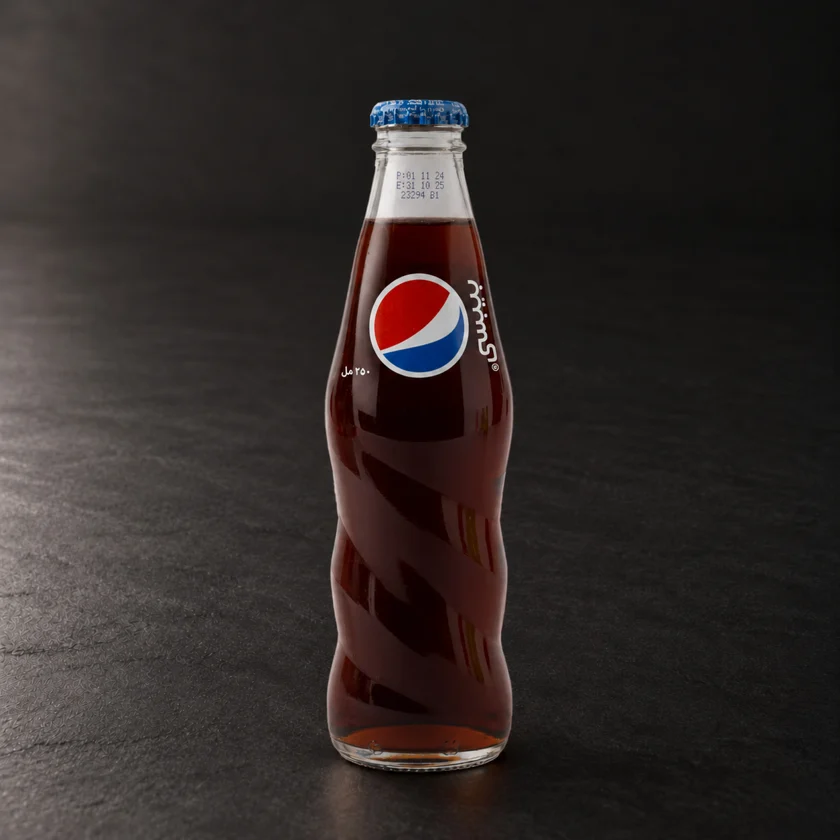
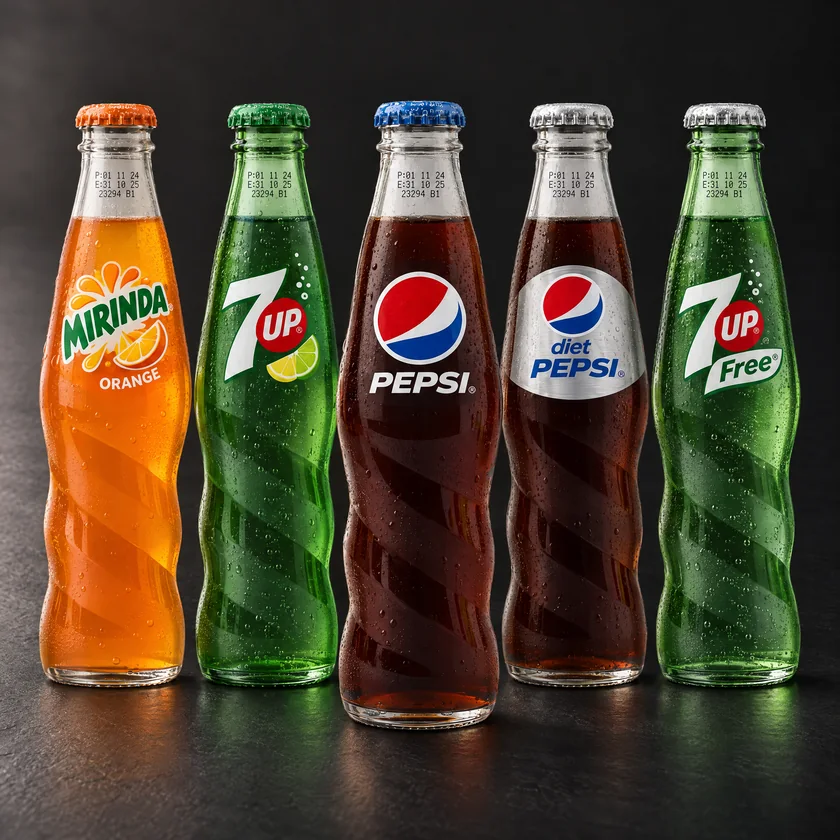
Unified menu: Sao Paulo hero, add-ons, fries options, new drinks photo
- Hero shows the Smokey Burger halves and Sao Paulo side by side
- Removes Burger Hunch / MOLT labels from dishes and sauces
- Burger add-ons (caramelised onion, jalapeno, extra cheese) at AED 3
- French fries plain or seasoned; new soft-drink line-up photo

Claude-Session: https://claude.ai/code/session_01593DdNt4ohMA5XQcDxVyGY

diff --git a/index.html b/index.html
@@ -77,9 +77,9 @@ button{font:inherit;color:inherit;background:none;border:0;padding:0;cursor:poin
 .l1{color:var(--cream);font-size:.78em}
 .l2{color:var(--orange);text-shadow:0 0 38px rgba(242,106,33,.35);--d0:240ms}
 [dir=rtl] .hero h1{font:700 clamp(50px,12vw,128px)/1.05 var(--text);letter-spacing:0}
-.food{position:absolute;top:0;bottom:0;left:50%;width:min(100%,980px);transform:translate3d(-50%,var(--fy,0px),0);z-index:2;pointer-events:none}
-.beef{position:absolute;width:62%;left:3%;bottom:2%;filter:drop-shadow(0 22px 22px rgba(0,0,0,.6))}
-.bogota{position:absolute;width:44%;right:2%;bottom:-1%;filter:drop-shadow(0 22px 24px rgba(0,0,0,.65))}
+.food{position:absolute;top:0;bottom:0;left:50%;width:min(100%,980px);transform:translate3d(-50%,var(--fy,0px),0);z-index:2;pointer-events:none;display:flex;align-items:flex-end;justify-content:center;gap:var(--fg,2%);padding:0 3% var(--fb,3%)}
+.beef{flex:none;width:var(--bw,52%);filter:drop-shadow(0 22px 22px rgba(0,0,0,.6))}
+.sao{flex:none;width:var(--sw,40%);filter:drop-shadow(0 22px 24px rgba(0,0,0,.65))}
 .lattice{position:absolute;right:-4%;bottom:-6%;width:44%;height:38%;z-index:1;opacity:.75;transform:rotate(-8deg);clip-path:polygon(9% 30%,30% 12%,58% 18%,82% 2%,100% 8%,100% 100%,0 100%);background:repeating-linear-gradient(45deg,transparent 0 13px,rgba(236,218,194,.55) 13px 15px),repeating-linear-gradient(-45deg,transparent 0 13px,rgba(236,218,194,.55) 13px 15px)}
 .sparks,.smoke{position:absolute;inset:0;z-index:1;pointer-events:none}
 .sparks i{position:absolute;bottom:18%;left:var(--x);width:var(--s);height:var(--s);border-radius:50%;background:var(--ember);box-shadow:0 0 8px 2px rgba(255,138,61,.7);opacity:0;animation:rise var(--d) linear var(--w) infinite}
@@ -90,12 +90,12 @@ button{font:inherit;color:inherit;background:none;border:0;padding:0;cursor:poin
 @keyframes heat{to{text-shadow:0 0 70px rgba(242,106,33,.6),0 0 18px rgba(255,160,90,.35)}}
 /* hero load sequence */
 .js .hero h1 .c{opacity:0;transform:translateY(55%) rotate(5deg);filter:blur(8px)}
-.js .beef,.js .bogota{opacity:0;transform:translateY(60px) scale(.94)}
+.js .beef,.js .sao{opacity:0;transform:translateY(60px) scale(.94)}
 .js .lattice{opacity:0;transform:rotate(-8deg) translateY(40px)}
 .ready .hero h1 .c{opacity:1;transform:none;filter:none;transition:transform .9s cubic-bezier(.2,.9,.25,1.12),opacity .5s ease,filter .7s ease;transition-delay:calc(var(--i)*38ms + var(--d0,0ms))}
 .ready .l2{animation:heat 2.8s ease-in-out 1.8s infinite alternate}
-.ready .beef,.ready .bogota{opacity:1;transform:none;transition:opacity .8s ease .55s,transform 1.2s cubic-bezier(.2,.9,.25,1.06) .55s}
-.ready .bogota{transition-delay:.72s}
+.ready .beef,.ready .sao{opacity:1;transform:none;transition:opacity .8s ease .55s,transform 1.2s cubic-bezier(.2,.9,.25,1.06) .55s}
+.ready .sao{transition-delay:.72s}
 .ready .lattice{opacity:.75;transform:rotate(-8deg);transition:opacity 1.2s ease .9s,transform 1.4s var(--ease) .9s}
 
 /* category bar */
@@ -175,6 +175,25 @@ main.swap{animation:swap .45s ease}
 .reveal.seen .copy>:nth-child(2){transition-delay:.09s}
 .reveal.seen .copy>:nth-child(3){transition-delay:.18s}
 @media (hover:hover){.item.seen:hover .ph img{transform:scale(1.07)}}
+
+/* fries options + burger add-ons */
+.opts{display:flex;flex-wrap:wrap;gap:8px;margin-top:12px}
+.opts span{display:inline-flex;align-items:center;gap:8px;min-height:36px;padding:6px 14px;border-radius:999px;border:1px solid rgba(242,106,33,.45);color:var(--cream);font:600 15px/1 var(--text)}
+.opts span::before{content:"";width:7px;height:7px;border-radius:50%;background:var(--orange)}
+.adds{margin-top:16px;padding-top:12px;border-top:1px dashed rgba(244,232,216,.14);max-width:520px}
+.adds-h{display:flex;align-items:baseline;justify-content:space-between;gap:12px;margin-bottom:10px}
+.adds-l{font:700 15px/1 var(--display);text-transform:uppercase;letter-spacing:.02em;color:var(--soft)}
+[dir=rtl] .adds-l{font:600 14px/1 var(--text);letter-spacing:0}
+.adds-row{display:flex;flex-wrap:wrap;gap:8px 18px}
+.add{display:inline-flex;align-items:center;gap:6px;font-size:14px;color:#d6c9b7;white-space:nowrap}
+.add img{width:30px;height:30px;object-fit:contain;filter:drop-shadow(0 3px 4px rgba(0,0,0,.5))}
+.adds-p{font:700 18px/1 var(--display);color:var(--cream);white-space:nowrap}
+.adds-p .cur{font-size:.7em}
+.adds-p small{font:400 13px/1 var(--text);color:var(--soft)}
+.sheet .adds{margin-top:18px}
+.stag .sp{display:block;margin-top:4px;font:700 .82em/1 var(--display);color:#9a3c10}
+.stag .sp .cur{color:#9a3c10;font-size:.8em}
+[dir=rtl] .stag .sp{font:600 .9em/1 var(--text)}
 
 /* sauces */
 .sub{margin:clamp(30px,4vw,44px) 0 4px;font:800 clamp(28px,3.8vw,38px)/1 var(--display);text-transform:uppercase;color:var(--cream)}
@@ -268,15 +287,15 @@ dialog.closing[open]::backdrop{animation:fadeOut .22s ease forwards}
   .sheet .big{min-height:0;aspect-ratio:4/3}
   dialog{width:100vw;max-width:100vw;max-height:94vh;margin:auto 0 0;border-radius:22px 22px 0 0}
   @keyframes pop{from{transform:translateY(60%)}}
-  .beef{width:70%;left:1%;bottom:5%}
-  .bogota{width:58%;right:-6%;bottom:16%}
+  .food{--bw:54%;--sw:42%;--fg:1%;--fb:6%;padding-inline:2%}
+  .hero{height:clamp(300px,82vw,340px)}
   .lattice{width:60%;height:30%}
 }
 @media (prefers-reduced-motion:reduce){
   *,*::before,*::after{animation:none!important;transition:none!important}
   html{scroll-behavior:auto}
   .js .splash{display:none}
-  .js .hero h1 .c,.js .beef,.js .bogota,.js .reveal .ph img,.js .reveal .copy>*,.js .op .ttl,.js .op .tag,.js .end .sign span,.js .saucebar .plank,.js .saucebar .cimg,.js .saucebar .stag{transform:none;opacity:1;filter:none;clip-path:none}
+  .js .hero h1 .c,.js .beef,.js .sao,.js .reveal .ph img,.js .reveal .copy>*,.js .op .ttl,.js .op .tag,.js .end .sign span,.js .saucebar .plank,.js .saucebar .cimg,.js .saucebar .stag{transform:none;opacity:1;filter:none;clip-path:none}
   .cimg::before{opacity:1}
   .js .lattice{opacity:.75;transform:rotate(-8deg)}
   .sear i{transform:skewX(-35deg) scaleX(1);background:#7a3414}
@@ -300,8 +319,8 @@ dialog.closing[open]::backdrop{animation:fadeOut .22s ease forwards}
   <div class="sparks" id="sparks" aria-hidden="true"></div>
   <div class="lattice" aria-hidden="true"></div>
   <div class="food" aria-hidden="true">
-    <img class="bogota" src="assets/hero/hero-bogota.webp" width="1066" height="810" alt="">
     <img class="beef" src="assets/hero/hero-smokey-beef.webp" width="1080" height="386" alt="">
+    <img class="sao" src="assets/hero/hero-sao-paulo.webp" width="900" height="655" alt="">
   </div>
 </section>
 
@@ -314,7 +333,6 @@ dialog.closing[open]::backdrop{animation:fadeOut .22s ease forwards}
 
 <footer class="end" id="end">
   <p class="sign" aria-label="From fire to fire"><span>From fire</span><span>to fire</span></p>
-  <p class="ready" data-t="ready">Ready to order? Just tell your waiter what you'd like.</p>
   <p data-t="aed">All prices are in UAE dirhams (AED).</p>
   <img src="assets/lockup.svg" width="164" height="34" alt="Burger Hunch × MOLT" loading="lazy">
 </footer>
@@ -329,38 +347,37 @@ dialog.closing[open]::backdrop{animation:fadeOut .22s ease forwards}
 const T={
   skip:["Skip to menu","تخطي إلى المنيو"],h1:["Grilled to","مشوي على"],h2:["Perfection.","أصوله."],
   cats:["Menu categories","أقسام المنيو"],single:["Single","سنجل"],double:["Double","دبل"],
-  ready:["Ready to order? Just tell your waiter what you'd like.","جاهز للطلب؟ أخبر النادل باختيارك."],
   aed:["All prices are in UAE dirhams (AED).","جميع الأسعار بالدرهم الإماراتي."],
-  note:["Tell your waiter when you're ready, and we'll fire it up.","أخبر النادل عندما تكون جاهزًا، ونبدأ الشوي فورًا."],
-  view:["View","عرض"],close:["Close","إغلاق"],sauces:["Sauces","الصوصات"],sbTag:["Pick one, or a few.","اختر واحدًا، أو أكثر."],each:["each","للواحد"],grpH:["Burger Hunch","برجر هنش"],grpM:["MOLT","مولت"],langBtn:["Switch to Arabic","التبديل إلى الإنجليزية"],
+  addons:["Add-ons","إضافات"],each:["each","للواحد"],plain:["Plain","سادة"],seasoned:["Seasoned","بالتوابل"],
+  view:["View","عرض"],close:["Close","إغلاق"],sauces:["Sauces","الصوصات"],sbTag:["Add your own touch to your sandwich.","أضف لمستك الخاصة على ساندوتشك."],langBtn:["Switch to Arabic","التبديل إلى الإنجليزية"],
   cur:["AED","درهم"]
 };
 const CATS=[
  {id:"burgers",n:["Burgers","برجر"],t:["Black Angus beef and chicken, grilled over a real wood fire.","لحم بلاك أنجوس ودجاج، مشويّان على نار الحطب."]},
- {id:"sandwiches",n:["Sandwiches","ساندوتشات"],t:["MOLT's fresh rolls, stacked with grilled Angus tenderloin or chicken breast.","خبز مولت الطازج، محشو بتندرلوين أنجوس أو صدر دجاج مشوي."]},
+ {id:"sandwiches",n:["Sandwiches","ساندوتشات"],t:["Fresh rolls, stacked with grilled Angus tenderloin or chicken breast.","خبز رول طازج، محشو بتندرلوين أنجوس أو صدر دجاج مشوي."]},
  {id:"appetizers",n:["Appetizers","مقبلات"],t:["Fries, bites and sides for the table, with six sauces to dip into.","بطاطس وبايتس وأطباق جانبية للطاولة، مع ست صوصات للتغميس."]},
  {id:"drinks",n:["Drinks","مشروبات"],t:["Something cold to go with the fire.","شيء بارد يرافق نار الحطب."]}
 ];
-const dbl=[" Go double for two slices."," اطلبه دبل بشريحتين."];
+const ADDONS=[{img:"caramelised-onion",n:["Caramelised onion","بصل مكرمل"]},{img:"jalapeno",n:["Jalapeño","هالبينو"]},{img:"extra-cheese",n:["Extra cheese","جبن إضافي"]}],ADDON_PRICE=3;
 const ITEMS=[
- {c:"burgers",img:"smokey-beef",sizes:[39,49],n:["Smokey Burger Beef","برجر سموكي لحم"],d:["Black Angus beef grilled over a wood fire, finished with melted American cheese and our smoky sauce."+dbl[0],"لحم بلاك أنجوس مشوي على نار الحطب، مع جبن أمريكي ذائب وصوص سموكي."+dbl[1]]},
- {c:"burgers",img:"smokey-chicken",sizes:[39,49],n:["Smokey Burger Chicken","برجر سموكي دجاج"],d:["Chicken grilled over a wood fire, finished with melted American cheese and our smoky sauce."+dbl[0],"دجاج مشوي على نار الحطب، مع جبن أمريكي ذائب وصوص سموكي."+dbl[1]]},
- {c:"burgers",img:"flat-beef",p:39,n:["Flat Tasty Burger Beef","فلات تيستي برجر لحم"],d:["A thin slice of Black Angus with Texas special sauce and American cheese, toasted flat over the wood fire.","شريحة بلاك أنجوس رقيقة مع صوص تكساس الخاص والجبن الأمريكي، محمّصة على نار الحطب."]},
- {c:"burgers",img:"flat-chicken",p:39,n:["Flat Tasty Burger Chicken","فلات تيستي برجر دجاج"],d:["Our Flat Tasty Burger, made with chicken.","فلات تيستي برجر، بالدجاج."]},
- {c:"sandwiches",img:"bogota",p:49,n:["Bogota","بوغوتا"],d:["Grilled Angus tenderloin with caramelised onion, white and yellow cheddar, lettuce, MOLT sauce and jalapeños, in a fresh roll.","شرائح تندرلوين أنجوس مشوية مع بصل مكرمل، وجبن شيدر أبيض وأصفر، وخس، وصوص مولت، وهالبينو، في خبز رول طازج."]},
- {c:"sandwiches",img:"sao-paulo",p:39,n:["Sao Paulo","ساو باولو"],d:["Grilled chicken breast strips in our MOLT marinade, with lettuce, white cheddar, crispy onion, ranch, honey mustard and chipotle, in a fresh roll.","شرائح صدر دجاج مشوية بتتبيلة مولت، مع خس وجبن شيدر أبيض وبصل مقرمش وصوص رانش وعسل وخردل وشيبوتلي، في خبز رول طازج."]},
- {c:"appetizers",img:"fries",p:15,n:["French Fries","بطاطس"],d:["Golden and crispy.","ذهبية ومقرمشة."]},
- {c:"appetizers",img:"cheese-fries",p:25,n:["Hunch Cheese Fries","هنش تشيز فرايز"],d:["Fries loaded with American cheddar, Hunch sauce and sliced jalapeños.","بطاطس مغطاة بجبن شيدر أمريكي وصوص هنش وشرائح هالبينو."]},
- {c:"appetizers",img:"hunch-bites",p:25,n:["Hunch Bites","هنش بايتس"],d:["Five pieces of fried chicken breast, served with Hunch sauce.","خمس قطع من صدر الدجاج المقلي، تُقدَّم مع صوص هنش."]},
+ {c:"burgers",img:"smokey-beef",sizes:[39,49],n:["Smokey Burger Beef","برجر سموكي لحم"],add:1,d:["Black Angus beef grilled over a wood fire, finished with melted American cheese and our smoky sauce.","لحم بلاك أنجوس مشوي على نار الحطب، مع جبن أمريكي ذائب وصوص سموكي."]},
+ {c:"burgers",img:"smokey-chicken",sizes:[39,49],n:["Smokey Burger Chicken","برجر سموكي دجاج"],add:1,d:["Chicken grilled over a wood fire, finished with melted American cheese and our smoky sauce.","دجاج مشوي على نار الحطب، مع جبن أمريكي ذائب وصوص سموكي."]},
+ {c:"burgers",img:"flat-beef",p:39,add:1,n:["Flat Tasty Burger Beef","فلات تيستي برجر لحم"],d:["A thin slice of Black Angus with Texas special sauce and American cheese, toasted flat over the wood fire.","شريحة بلاك أنجوس رقيقة مع صوص تكساس الخاص والجبن الأمريكي، محمّصة على نار الحطب."]},
+ {c:"burgers",img:"flat-chicken",p:39,add:1,n:["Flat Tasty Burger Chicken","فلات تيستي برجر دجاج"],d:["Our Flat Tasty Burger, made with chicken.","فلات تيستي برجر، بالدجاج."]},
+ {c:"sandwiches",img:"bogota",p:49,n:["Bogota","بوغوتا"],d:["Grilled Angus tenderloin with caramelised onion, white and yellow cheddar, lettuce, signature sauce and jalapeños, in a fresh roll.","شرائح تندرلوين أنجوس مشوية مع بصل مكرمل، وجبن شيدر أبيض وأصفر، وخس، وسيغنتشر صوص، وهالبينو، في خبز رول طازج."]},
+ {c:"sandwiches",img:"sao-paulo",p:39,n:["Sao Paulo","ساو باولو"],d:["Grilled chicken breast strips in our special marinade, with lettuce, white cheddar, crispy onion, ranch, honey mustard and chipotle, in a fresh roll.","شرائح صدر دجاج مشوية بتتبيلتنا الخاصة، مع خس وجبن شيدر أبيض وبصل مقرمش وصوص رانش وعسل وخردل وشيبوتلي، في خبز رول طازج."]},
+ {c:"appetizers",img:"fries",p:15,opts:["plain","seasoned"],n:["French Fries","بطاطس"],d:["Golden and crispy, plain or seasoned with our spices.","ذهبية ومقرمشة، سادة أو بالتوابل."]},
+ {c:"appetizers",img:"cheese-fries",p:25,n:["Cheese Fries","تشيز فرايز"],d:["Fries loaded with American cheddar, house sauce and sliced jalapeños.","بطاطس مغطاة بجبن شيدر أمريكي وهاوس صوص وشرائح هالبينو."]},
+ {c:"appetizers",img:"hunch-bites",p:25,n:["Chicken Bites","تشيكن بايتس"],d:["Five pieces of fried chicken breast, served with house sauce.","خمس قطع من صدر الدجاج المقلي، تُقدَّم مع هاوس صوص."]},
  {c:"appetizers",img:"cheese-nachos",p:15,n:["Cheese Nachos","ناتشوز بالجبنة"],d:["Two fried nachos filled with American cheese and jalapeños.","قطعتان من الناتشوز المقلي محشوتان بالجبن الأمريكي والهالبينو."]},
- {c:"appetizers",img:"corn-salad",p:20,n:["MOLT Corn Salad","سلطة مولت بالذرة"],d:["Grilled corn, feta, fresh coriander, tomatoes, green peppers and spring onions, with lemon mayonnaise.","ذرة مشوية مع جبنة الفيتا، والكزبرة الطازجة، والطماطم، والفلفل الأخضر، والبصل الأخضر، مع صوص المايونيز بالليمون."]},
- {c:"appetizers",s:1,g:"h",sn:["Hunch","هنش"],img:"hunch-sauce",p:6,n:["Hunch Sauce","صوص هنش"],d:["One of three Burger Hunch sauces.","واحد من ثلاث صوصات برجر هنش."]},
- {c:"appetizers",s:1,g:"h",sn:["Smokey","سموكي"],img:"smokey-sauce",p:6,n:["Smokey Sauce","صوص سموكي"],d:["One of three Burger Hunch sauces.","واحد من ثلاث صوصات برجر هنش."]},
- {c:"appetizers",s:1,g:"h",sn:["Algerian","الجيريا"],img:"algerian-sauce",p:6,n:["Algerian Sauce","صوص الجيريا"],d:["One of three Burger Hunch sauces.","واحد من ثلاث صوصات برجر هنش."]},
- {c:"appetizers",s:1,g:"m",sn:["MOLT","مولت"],img:"molt-sauce",p:5,n:["MOLT Sauce","صوص مولت"],d:["One of three MOLT sauces.","واحد من ثلاث صوصات مولت."]},
- {c:"appetizers",s:1,g:"m",sn:["Special","خاص"],img:"special-sauce",p:5,n:["Special Sauce","صوص خاص"],d:["One of three MOLT sauces.","واحد من ثلاث صوصات مولت."]},
- {c:"appetizers",s:1,g:"m",sn:["Honey Mustard","عسل وخردل"],img:"honey-mustard",p:5,n:["Honey Mustard","صوص العسل والخردل"],d:["One of three MOLT sauces.","واحد من ثلاث صوصات مولت."]},
- {c:"drinks",img:"soft-drinks",p:8,n:["Soft Drinks","مشروبات غازية"]},
+ {c:"appetizers",img:"corn-salad",p:20,n:["Corn Salad","سلطة الذرة"],d:["Grilled corn, feta, fresh coriander, tomatoes, green peppers and spring onions, with lemon mayonnaise.","ذرة مشوية مع جبنة الفيتا، والكزبرة الطازجة، والطماطم، والفلفل الأخضر، والبصل الأخضر، مع صوص المايونيز بالليمون."]},
+ {c:"appetizers",s:1,g:"h",sn:["House","هاوس"],img:"hunch-sauce",p:6,n:["House Sauce","هاوس صوص"]},
+ {c:"appetizers",s:1,g:"h",sn:["Smokey","سموكي"],img:"smokey-sauce",p:6,n:["Smokey Sauce","صوص سموكي"]},
+ {c:"appetizers",s:1,g:"h",sn:["Algerian","الجيريا"],img:"algerian-sauce",p:6,n:["Algerian Sauce","صوص الجيريا"]},
+ {c:"appetizers",s:1,g:"m",sn:["Signature","سيغنتشر"],img:"molt-sauce",p:5,n:["Signature Sauce","سيغنتشر صوص"]},
+ {c:"appetizers",s:1,g:"m",sn:["Special","خاص"],img:"special-sauce",p:5,n:["Special Sauce","صوص خاص"]},
+ {c:"appetizers",s:1,g:"m",sn:["Honey Mustard","عسل وخردل"],img:"honey-mustard",p:5,n:["Honey Mustard","صوص العسل والخردل"]},
+ {c:"drinks",img:"soft-drinks",p:8,n:["Soft Drinks","مشروبات غازية"],d:["Pepsi, Diet Pepsi, 7UP, 7UP Free or Mirinda Orange.","بيبسي، بيبسي دايت، سفن أب، سفن أب فري أو ميرندا برتقال."]},
  {c:"drinks",img:"water",p:8,n:["Water","مياه"]},
  {c:"drinks",img:"sparkling-water",p:11,n:["Sparkling Water","مياه غازية"]}
 ];
@@ -377,14 +394,15 @@ const pricesHTML=(it,solo)=>it.sizes
   ?`<div class="prices">${it.sizes.map((v,i)=>`<span class="price"><span class="lb">${T[i?"double":"single"][L]}</span>${money(v)}</span>`).join("")}</div>`
   :`<div class="prices"><span class="price${solo?" solo":""}">${money(it.p)}</span></div>`;
 const pic=(it,lazy)=>`<div class="ph"><img src="assets/photos/${it.img}.webp" width="840" height="840" alt="${esc(it.n[L])}"${lazy?' loading="lazy" decoding="async"':""}></div>`;
-const row=(it,i,k)=>`<article class="item reveal${k%2?" flip":""}" data-i="${i}">${pic(it,i>1)}<div class="copy"><h3 class="name">${esc(it.n[L])}</h3>${it.d?`<p class="desc">${esc(it.d[L])}</p>`:""}${pricesHTML(it,true)}</div><button class="hit" type="button" data-open="${i}" aria-label="${T.view[L]}: ${esc(it.n[L])}"></button></article>`;
+const optsHTML=it=>it.opts?`<div class="opts">${it.opts.map(o=>`<span>${T[o][L]}</span>`).join("")}</div>`:"";
+const addsHTML=it=>it.add?`<div class="adds"><div class="adds-h"><span class="adds-l">${T.addons[L]}</span><span class="adds-p">+${money(ADDON_PRICE)} <small>${T.each[L]}</small></span></div><div class="adds-row">${ADDONS.map(a=>`<span class="add"><img src="assets/addons/${a.img}.webp" width="160" height="160" alt="" loading="lazy">${esc(a.n[L])}</span>`).join("")}</div></div>`:"";
+const row=(it,i,k)=>`<article class="item reveal${k%2?" flip":""}" data-i="${i}">${pic(it,i>1)}<div class="copy"><h3 class="name">${esc(it.n[L])}</h3>${it.d?`<p class="desc">${esc(it.d[L])}</p>`:""}${pricesHTML(it,true)}${optsHTML(it)}${addsHTML(it)}</div><button class="hit" type="button" data-open="${i}" aria-label="${T.view[L]}: ${esc(it.n[L])}"></button></article>`;
 const saucebar=list=>{
-  const grp=(g,label)=>{const xs=list.filter(([it])=>it.g===g),p=xs[0][0].p;
-    return `<div class="grp"><div class="grp-h"><b>${label}</b><span>${money(p)}<small>${T.each[L]}</small></span></div>
-    <div class="cups">${xs.map(([it,i],k)=>`<button class="cimg" type="button" style="--k:${k}" data-open="${i}" data-cup="${i}" aria-label="${T.view[L]}: ${esc(it.n[L])}, ${p} ${T.cur[L]}"><img src="assets/sauces/${it.img}.webp" width="420" height="370" alt="" loading="lazy" decoding="async"></button>`).join("")}</div>
+  const shelf=(xs,off)=>`<div class="grp">
+    <div class="cups">${xs.map(([it,i],k)=>`<button class="cimg" type="button" style="--k:${k+off}" data-open="${i}" data-cup="${i}" aria-label="${T.view[L]}: ${esc(it.n[L])}, ${it.p} ${T.cur[L]}"><img src="assets/sauces/${it.img}.webp" width="420" height="370" alt="" loading="lazy" decoding="async"></button>`).join("")}</div>
     <div class="plank" aria-hidden="true"></div>
-    <div class="tags">${xs.map(([it,i],k)=>`<button class="stag" type="button" style="--k:${k};--tilt:${[-2.5,1.5,-1][k]}deg" data-open="${i}" aria-label="${T.view[L]}: ${esc(it.n[L])}">${esc(it.sn[L])}</button>`).join("")}</div></div>`};
-  return `<div class="saucebar"><h3 class="sub">${T.sauces[L]}</h3><p class="sb-tag">${T.sbTag[L]}</p><div class="shelves">${grp("h",T.grpH[L])}${grp("m",T.grpM[L])}</div></div>`;
+    <div class="tags">${xs.map(([it,i],k)=>`<button class="stag" type="button" style="--k:${k+off};--tilt:${[-2.5,1.5,-1][k]}deg" data-open="${i}" aria-label="${T.view[L]}: ${esc(it.n[L])}">${esc(it.sn[L])}<span class="sp">${money(it.p)}</span></button>`).join("")}</div></div>`;
+  return `<div class="saucebar"><h3 class="sub">${T.sauces[L]}</h3><p class="sb-tag">${T.sbTag[L]}</p><div class="shelves">${shelf(list.slice(0,3),0)}${shelf(list.slice(3),3)}</div></div>`;
 };
 const opener=c=>`<header class="op"><div class="ghost" aria-hidden="true"><span>${esc(c.n[L])}&nbsp;&nbsp;${esc(c.n[L])}&nbsp;&nbsp;${esc(c.n[L])}</span></div><h2 class="ttl" id="h-${c.id}">${esc(c.n[L])}</h2><p class="tag">${esc(c.t[L])}</p><div class="sear" aria-hidden="true">${[0,1,2,3].map(n=>`<i style="--n:${n}"></i>`).join("")}</div></header>`;
 const tape=(c,k)=>{const one=`<span>${esc(c.n[L])}${FLAME}</span>`.repeat(6);return `<div class="tapewrap" aria-hidden="true"><div class="tape" style="--r:${k%2?2:-2}deg" data-dir="${k%2?1:-1}"><div class="track">${one}${one}</div></div></div>`};
@@ -477,7 +495,7 @@ document.fonts&&document.fonts.ready.then(()=>{measure();first=true});
 const dlg=$("#sheet");
 function openItem(i,src){
   const it=ITEMS[i];
-  $("#sheet-in").innerHTML=`<div class="big"><img src="assets/photos/${it.img}.webp" width="840" height="840" alt="${esc(it.n[L])}"></div><div class="body"><h3 class="name" id="sheet-name">${esc(it.n[L])}</h3>${it.d?`<p class="desc">${esc(it.d[L])}</p>`:""}${pricesHTML(it,false)}<p class="note">${T.note[L]}</p></div>`;
+  $("#sheet-in").innerHTML=`<div class="big"><img src="assets/photos/${it.img}.webp" width="840" height="840" alt="${esc(it.n[L])}"></div><div class="body"><h3 class="name" id="sheet-name">${esc(it.n[L])}</h3>${it.d?`<p class="desc">${esc(it.d[L])}</p>`:""}${pricesHTML(it,false)}${optsHTML(it)}${addsHTML(it)}</div>`;
   const fly=!RM&&src&&dlg.showModal&&dlg.animate;
   dlg.classList.toggle("flip",!!fly);
   if(dlg.showModal)dlg.showModal();else dlg.setAttribute("open","");

diff --git a/README.md b/README.md
@@ -5,6 +5,8 @@ Browsing-only menu for guests at the table, on a tablet or by QR. The waiter tak
 - Open `index.html` from a web host. Keep the `assets` folder next to it.
 - Four categories: Burgers, Sandwiches, Appetizers (with sauces) and Drinks. Items and prices match Foodbit (app1.foodbit.io/en/burgerhunchxmolt) as checked on 15 Nov 2026.
 - English and Arabic (RTL) are both included. The menu opens in Arabic on Arabic-language devices and remembers the guest's choice.
+- One unified menu: no Burger Hunch or MOLT labels on dishes or sauces.
+- Burgers show their add-ons (caramelised onion, jalapeño, extra cheese) at AED 3 each. French fries can be plain or seasoned.
 - Tapping a dish flies its photo into a detail sheet with the description and price.
 - Motion:
   - The menu opens with a short logo curtain. Tap it to skip.
@@ -18,4 +20,5 @@ Browsing-only menu for guests at the table, on a tablet or by QR. The waiter tak
 ## Photos
 - MOLT sandwiches use the 3 Nov stamp-free revision (`outputs/black-menu-20261028/revision-20261103`).
 - Burger Hunch items use the Burger Hunch 23-photo set.
-- Higgsfield (GPT Image 2.6) generated three photos in the same slate style: Flat Tasty Burger Chicken (edited from the beef photo), Water and Sparkling Water. The originals are in `higgsfield/`. Replace them with real photos when available.
+- Higgsfield (GPT Image 2.6) generated photos in the same slate style: Flat Tasty Burger Chicken (edited from the beef photo), Water, Sparkling Water, the soft-drink bottle line-up and the three add-on icons. The originals are in `higgsfield/`. Replace them with real photos when available.
+- The hero uses a background-removed cut-out of the stamp-free Sao Paulo next to the Smokey Burger halves. The sauce cups are background-removed cut-outs of the menu photos.
